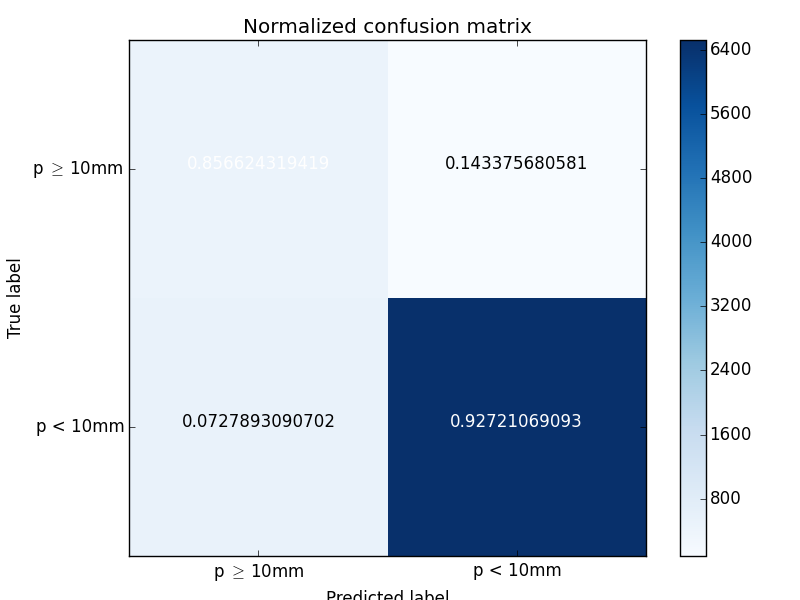
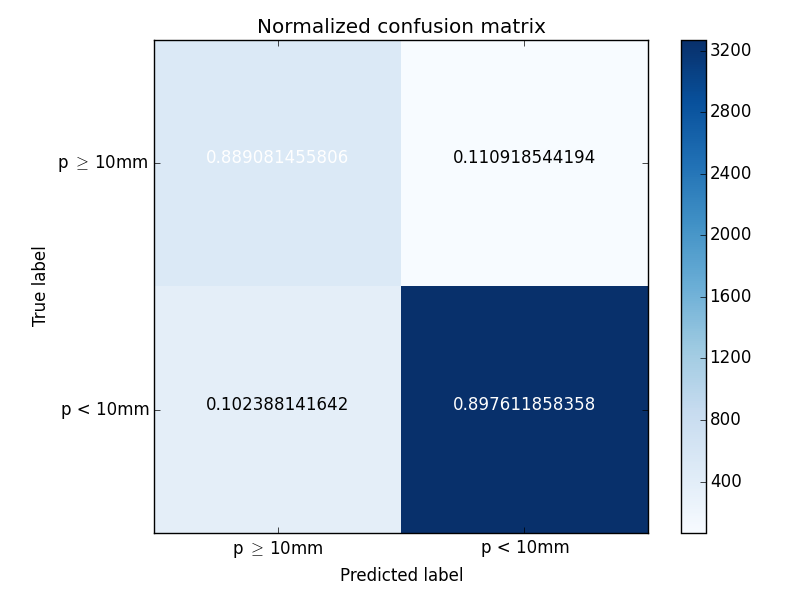
new test loop including default benchmark & corrected confusion matrix such that xlabel is no longer cut off

diff --git a/training/eval_models.py b/training/eval_models.py
@@ -110,6 +110,7 @@ def plot_confusion_matrix(cm, classes,
     plt.tight_layout()
     plt.ylabel('True label')
     plt.xlabel('Predicted label')
+    plt.tight_layout()
 
 def calculate_scores(valid_y, pred_y, valid_Y_np, pred_prob):
     """
@@ -151,7 +152,7 @@ def main(region):
     pred = model.predict(X)
     y_score = np.array(pred)
     predicted_label = [round(item) for item in y_score[:,0]]
-    valid_label = [item for item in Y[:,0]]
+    valid_label = [item for item in Y[:,0]]    
     
     print('***** CNN *****')
     # calculate scores
@@ -168,16 +169,23 @@ def main(region):
     print("Std. Deviation: ", np.nanstd(auc_list))
         
     # get benchmark
-    benchmark_files = sorted(glob.glob(datdir + 'benchmark_prob_*_' + str(region) + '.npy'))
+    benchmark_files = [item for item in \
+                    sorted(glob.glob(datdir + 'benchmark_prob_*'+ str(region) + '*'))\
+                    if re.match('.*([0-9]{8}).*',item).group(1) in runs]
+    print(len(benchmark_files), len(test_files))
     pred_bench,Y_bench = construct_np_arrays(datdir,benchmark_files,np.empty((0,2),int))
     predicted_label_bench = [round(item) for item in pred_bench[:,0]]
     valid_label_bench = [item for item in Y_bench[:,0]]
 
+    crit = 0.4 if region == 144 else 0.7
+    autowarn_label = np.array([1 if item >= crit else 0 for item in pred_bench[:,0]])   
+    
     print('***** BENCHMARK *****')
     # calculate scores
     fpr_bench, tpr_bench, roc_auc_bench = calculate_scores(valid_label_bench,\
                                          predicted_label_bench, Y_bench[:,0], pred_bench[:,0])
-
+    fpr_auto, tpr_auto, _ = roc_curve(Y_bench[:,0],autowarn_label)
+    
     # plot roc curves
     outdir = '/home/silviar/Dokumente/Abschlussarbeit/training/models/'
     plt.figure()
@@ -185,6 +193,10 @@ def main(region):
             % roc_auc)
     plt.plot(fpr_bench,tpr_bench, color = 'purple', lw = 2, \
             label = 'COSMO-E (area = %0.2f)' % roc_auc_bench)
+    # plot autowarn default
+    plt.plot(fpr_auto[1],tpr_auto[1],'o',color = 'purple', label = 'default')
+    
+    # add diagonal
     plt.plot([0,1],[0,1], color = 'navy', lw = 2, linestyle = '--')
     plt.xlim([0.0,1.0])
     plt.ylim([0.0,1.0])
